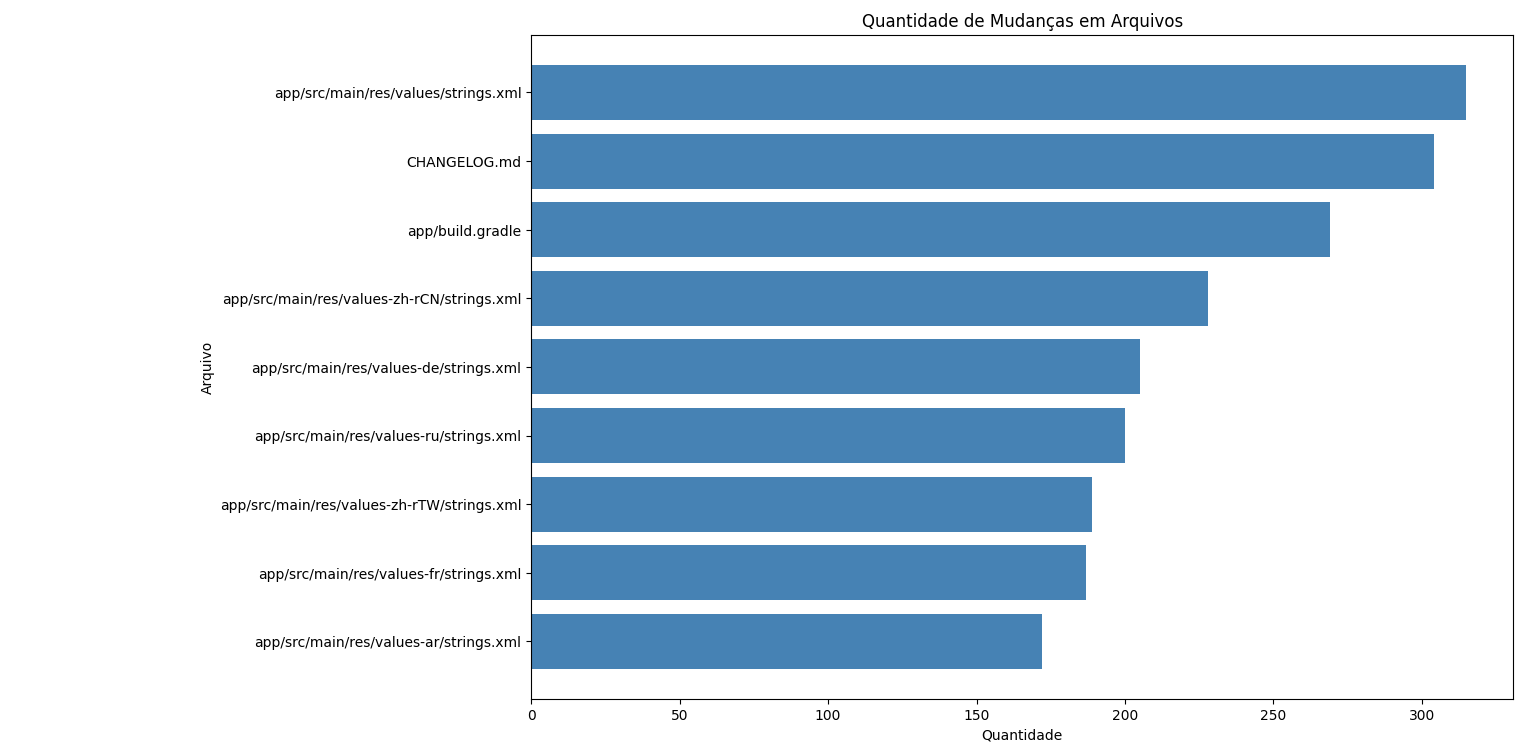
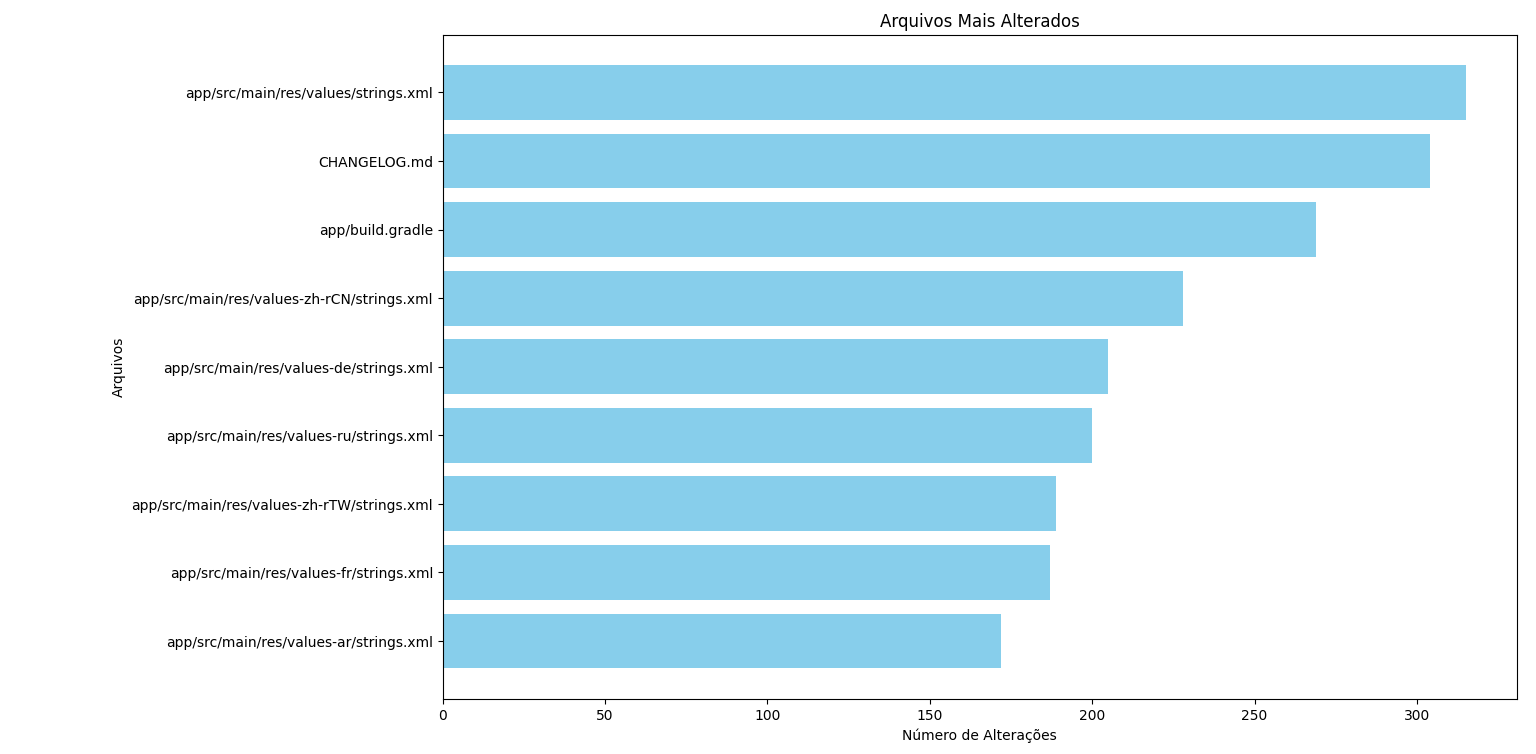
Simplificando código e implementando análise de commits por mês

diff --git a/Analise/arquivos_mais_alterados/main.py b/Analise/arquivos_mais_alterados/main.py
@@ -1,33 +1,28 @@
 import matplotlib.pyplot as plt
 
-# Função para ler os dados do arquivo
-def ler_dados(arquivo):
-    with open(arquivo, 'r') as file:
-        linhas = file.readlines()
+# Dados fornecidos
+arquivos = [
+    'app/src/main/res/values/strings.xml',
+    'CHANGELOG.md',
+    'app/build.gradle',
+    'app/src/main/res/values-zh-rCN/strings.xml',
+    'app/src/main/res/values-de/strings.xml',
+    'app/src/main/res/values-ru/strings.xml',
+    'app/src/main/res/values-zh-rTW/strings.xml',
+    'app/src/main/res/values-fr/strings.xml',
+    'app/src/main/res/values-ar/strings.xml'
+]
 
-    # Ignorar a primeira linha com o total
-    linhas = linhas[1:]
-
-    # Processar os dados
-    quantidades = []
-    arquivos = []
-    for linha in linhas:
-        partes = linha.strip().split(maxsplit=1)
-        if len(partes) == 2:
-            quantidades.append(int(partes[0]))
-            arquivos.append(partes[1])
-
-    return arquivos, quantidades
-
-# Ler os dados do arquivo
-arquivos, quantidades = ler_dados('C:/Users/guilh/OneDrive/Área de Trabalho/TELP/Complexidade Ciclomatica/Complexidade-Ciclom-tica/Info/Churn_Code/most_churn_files.txt')
+alteracoes = [315, 304, 269, 228, 205, 200, 189, 187, 172]
 
 # Criar o gráfico
-plt.figure(figsize=(10, 8))
-plt.barh(arquivos, quantidades, color='steelblue')
-plt.xlabel('Quantidade')
-plt.ylabel('Arquivo')
-plt.title('Quantidade de Mudanças em Arquivos')
-plt.gca().invert_yaxis()  # Inverter o eixo Y para mostrar o maior valor no topo
-plt.tight_layout()
+plt.figure(figsize=(12, 8))
+plt.barh(arquivos, alteracoes, color='skyblue')
+plt.xlabel('Número de Alterações')
+plt.ylabel('Arquivos')
+plt.title('Arquivos Mais Alterados')
+plt.gca().invert_yaxis()  # Inverte o eixo y para mostrar o arquivo mais alterado no topo
+plt.tight_layout()  # Ajusta o layout para não cortar labels
+
+# Exibir o gráfico
 plt.show()

diff --git a/Analise/commits_mes_JP/main.py b/Analise/commits_mes_JP/main.py
@@ -1,0 +1,32 @@
+import matplotlib.pyplot as plt
+
+# Dados fornecidos
+meses = [
+    '2021-02', '2021-03', '2021-04', '2021-10',
+    '2022-05', '2023-01', '2023-02', '2023-03',
+    '2023-05', '2023-06', '2023-07', '2023-08',
+    '2023-09', '2023-10', '2023-11', '2023-12',
+    '2024-01', '2024-02', '2024-03', '2024-04',
+    '2024-05', '2024-06', '2024-07', '2024-08'
+]
+
+commits = [
+    1, 20, 7, 1,
+    3, 19, 7, 1,
+    22, 110, 150, 129,
+    25, 18, 11, 6,
+    51, 82, 153, 121,
+    27, 38, 38, 22
+]
+
+# Criar o gráfico
+plt.figure(figsize=(12, 6))
+plt.bar(meses, commits, color='skyblue')
+plt.xlabel('Meses')
+plt.ylabel('Quantidade de Commits')
+plt.title('Quantidade de Commits por Mês')
+plt.xticks(rotation=45)
+plt.tight_layout()  # Ajusta o layout para não cortar labels
+
+# Exibir o gráfico
+plt.show()
